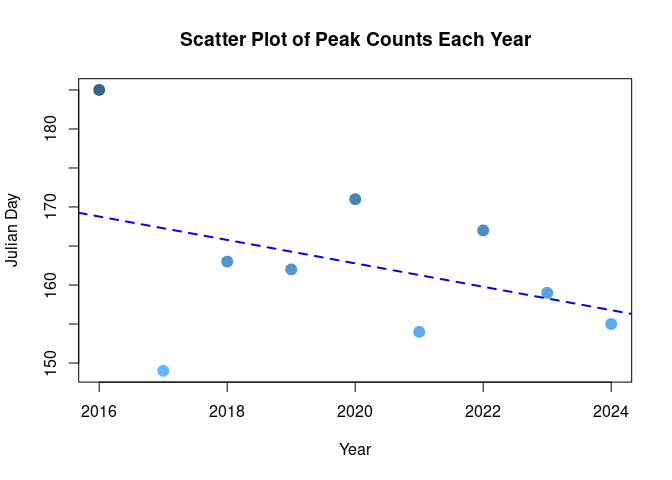
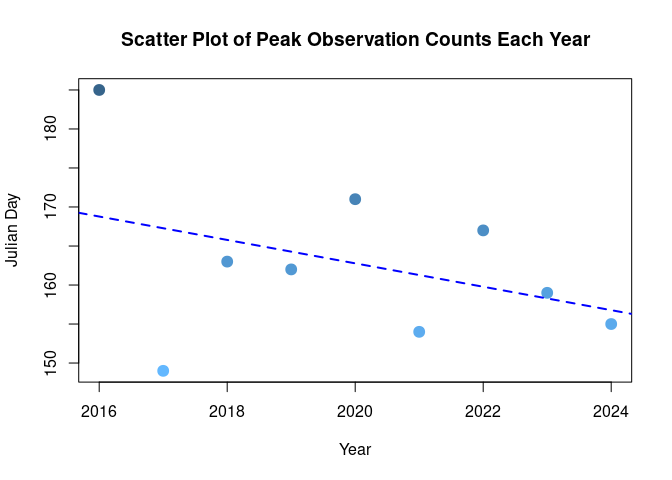
final report submission

Changed region(s): [[0.1562, 0.0625, 0.875, 0.0938]]

diff --git a/FinalMarkdown.md b/FinalMarkdown.md
@@ -1,24 +1,24 @@
 Final Markdown Report - Fireflies
 ================
 Luke Hatch
-2025-11-20
+2025-12-02
 
 - [ABSTRACT](#abstract)
 - [BACKGROUND](#background)
   - [Question](#question)
   - [Hypothesis](#hypothesis)
   - [Prediction](#prediction)
-- [METHODS](#methods)
+- [Methods and Results](#methods-and-results)
   - [1st Analysis (Bar Plot)](#1st-analysis-bar-plot)
   - [2nd Analysis (Scatter Plot)](#2nd-analysis-scatter-plot)
-  - [3rd Analysis (ANOVA)](#3rd-analysis-anova)
+  - [3rd Analysis (Linear Model)](#3rd-analysis-linear-model)
 - [DISCUSSION](#discussion)
   - [Interpretation of Analysis 1 (Bar
     Plot)](#interpretation-of-analysis-1-bar-plot)
   - [Interpretation of Analysis 2 (Scatter
     Plot)](#interpretation-of-analysis-2-scatter-plot)
-  - [Interpretation of Analysis 3
-    (ANOVA)](#interpretation-of-analysis-3-anova)
+  - [Interpretation of Analysis 3 (Linear
+    Model)](#interpretation-of-analysis-3-linear-model)
 - [CONCLUSION](#conclusion)
 - [REFERENCES](#references)
 
@@ -27,17 +27,19 @@ Luke Hatch
 Firefly emergence is influenced by many environmental factors, including
 temperature. This raises the question as to whether warming temperatures
 (e.g. from climate change) could affect at what times of year adults are
-observed. From citizen science data collected in Utah from 2016-2024, we
-analyzed peak firefly abundance monthly from year to year by
+observed. From citizen science data (provided by Christy Bills, 2025)
+collected in Utah from 2016-2024 as part of the Western Firefly Project
+(2025), we analyzed firefly observations monthly from year to year by
 consolidating the observations into counts. We then displayed the data
 patterns using a bar plot and a scatter plot. This displayed a
 consistent peak firefly count in June each year with a slight downward
-trend in earlier emergence. An ANOVA analysis was also conducted in
-order to test for significance between the peak emergences in 2016-2024,
-yielding insignificant results (p = 0.309). These results did not
-support our hypothesis of warmer temperatures affecting the timing of
-firefly emergences. However, citizen science data is limiting. Long-term
-observational studies in various locations could yield other results.
+trend in earlier emergence. A linear model was ran in order to test for
+both the trend and significance between the peak observational counts in
+2016-2024, yielding insignificant results (p = 0.309). These results did
+not support our hypothesis of warmer temperatures affecting the timing
+of firefly emergence. However, citizen science data is limiting and
+long-term observational studies in various locations could yield other
+results.
 
 # BACKGROUND
 
@@ -48,45 +50,51 @@ record what they saw, providing firefly citizen scientist data that
 supports further research on their behavior. Before they’re in the sky,
 however, they spend the majority of their lives underground developing.
 Duration of their lives underground is influenced by a variety of
-factors (Evans et al., 2019, p. 266). Depending primarily on climate and
-soil conditions, the stages of the firefly life cycles can be altered -
-taking or adding time (Evans et al., 2019, p. 266). Because these
-conditions change each year, the timing and abundance of emerged
-fireflies can also fluctuate. This report uses citizen science data
-collected in Utah to examine firefly abundance over the past 8 years.
+factors (Evans et al., 2019). Depending primarily on climate and soil
+conditions, the stages of the firefly life cycles can be altered -
+taking or adding time (Evans et al., 2019). Because these conditions
+change each year, the timing and number of emerged fireflies can also
+fluctuate. This report uses citizen science data collected in Utah to
+examine firefly observational counts over the past 9 years and how the
+timing of those counts has changed.
 
 ## Question
 
-How has firefly peak abundance changed monthly over the last 8 years
-(2016-2024)?
+How has the timing of firefly peak observational count changed over the
+last 9 years (2016-2024)?
 
 ## Hypothesis
 
 Due to temperature changes (e.g. global warming), fireflies are expected
 to emerge sooner in the year as each year passes, as warmer temperatures
 can accelerate their development and affect the timing of emergence
-(Evans et al., 2019, p. 266).
+(indicated by peak observational counts)(Evans et al., 2019).
 
 ## Prediction
 
 If temperature increases have influenced firefly emergence, then peak
-abundance would be observed earlier in years where the temperature is
-higher earlier in that year (such as emerging in May vs. June).
+observational counts would be observed earlier in years where the
+temperature is higher earlier in that year (such as emerging in May
+vs. June).
 
-# METHODS
+# Methods and Results
 
 Over the years, starting in 1964, citizen science data was collected
 throughout Utah on firefly sightings. Observations included information
-like date, time, location, habitat, and count was recorded. Citizen
+like date, time, location, habitat, and count was recorded. This data
+was used to answer our question regarding observational counts year to
+year and whether there was an earlier trend of emergence or not. Citizen
 science data is notoriously messy and unreliable, so we took the data
 and simplified it by only using the dates observed and using that date
 as a count, rather than the numbers of fireflies reported. We also added
-a column that converted the day of the year to a Julian calendar day.
-This revised data was then uploaded to R Studio Cloud and code was
-written to: 1) display the data by counts per month each year in a
-multi-plot 2) display the data year-to-year by peak abundance and
-observe the trend and 3) perform an ANOVA to determine if the trend is
-significant.
+a column that converted the day of the year to a Julian calendar day. We
+made this change to the response variable for simplicity comparing year
+to year, numbering each day 1-365 rather than 1-30 repeated for each
+month. This revised data was then uploaded to R Studio Cloud and code
+was written to: 1) display the data by counts per month each year in a
+multi-plot 2) display the data year-to-year by peak observational counts
+and observe the trend and 3) create an linear model to determine if the
+trend is significant.
 
 ## 1st Analysis (Bar Plot)
 
@@ -120,7 +128,7 @@ color_gradient <- colorRampPalette(c("steelblue1", "steelblue4"))
 # Generate a vector (color gradient) based on Julian values
 cols <- color_gradient(100)[as.numeric(cut(Julian, breaks = 100))]
 #plot as scatter plot
-plot(Year, Julian, main = "Scatter Plot of Peak Counts Each Year",
+plot(Year, Julian, main = "Scatter Plot of Peak Observation Counts Each Year",
      col = cols,
      pch = 19,       # filled circles
      cex = 1.5,      # point size
@@ -131,24 +139,13 @@ abline(lm(Julian ~ Year), col = "blue", lwd = 2, lty = 2)
 
 ![](FinalMarkdown_files/figure-gfm/second-1.png)<!-- -->
 
-## 3rd Analysis (ANOVA)
+## 3rd Analysis (Linear Model)
 
 ``` r
 #create data frame 
 Julian_dataframe <- data.frame(ColumnA = Julian, ColumnB = Year)
 m1 <- lm( ColumnA ~ ColumnB, data=Julian_dataframe)
-# run anova test for p value
-anova(m1)
-```
-
-    ## Analysis of Variance Table
-    ## 
-    ## Response: ColumnA
-    ##           Df Sum Sq Mean Sq F value Pr(>F)
-    ## ColumnB    1 135.00  135.00  1.2014 0.3093
-    ## Residuals  7 786.56  112.36
-
-``` r
+# run linear model from julian data frame for slope and p value
 summary(m1)
 ```
 
@@ -172,43 +169,49 @@ summary(m1)
 # DISCUSSION
 
 Results of citizen science firefly observations did not show a
-significant change in peak abundance each year. Analyses showed each
-observation on a timeline from 2016 to 2024. It was clear that firefly
-abundance was highest around June each year. In taking a closer look at
-the peak abundance each year, there was a slight trend downward as the
-years became more current. After the ANOVA was ran, the slope of this
-line was determined to be -1.5 and the significance of the peak
-abundances was 0.3093. This meant the change year to year was not
-significant. This did not support our hypothesis.
+significant change in peak observational counts each year. Analyses
+showed each observation on a timeline from 2016 to 2024. It was clear
+that firefly emergence was highest around June each year. In taking a
+closer look at the peak counts each year, there was a slight trend
+downward as the years became more current. After the linear model was
+examined, the slope of this line was determined to be -1.5 and the
+significance of the peak observational counts was 0.3093. This meant the
+change year to year was not significant. This did not support our
+hypothesis.
 
 ## Interpretation of Analysis 1 (Bar Plot)
 
-The bar plot clearly shows a common trend of firefly abundance each
-year. Abundance starts lowest in the beginning of the year, and around
-June (Julian days 145-190) peaks in numbers. This is followed by a
+The bar plot clearly shows a common trend of firefly observational
+counts each year. Counts start lowest in the beginning of the year, and
+around June (Julian days 145-190) peak in numbers. This is followed by a
 decline as the year completes and the cycle repeats.
 
 ## Interpretation of Analysis 2 (Scatter Plot)
 
-This scatter plot is a visual of the peak abundance from years
-2018-2024. There is a large amount of fluctuation in the time of year
-peak abundance is reached each year. The line helps indicate a slight
-downward trend as the years go by, but does not indicate the slope of
-that line.
+This scatter plot is a visual of the peak observational counts from
+years 2016-2024. There is a large amount of fluctuation in the time of
+year peaks counts are reached each year, with the latest outlier in 2016
+with the earliest peak observation count following in 2017. The
+contributes to a slight downward trend as the years go by, but does not
+indicate the slope of that line or significance (see Analysis 3 below).
 
-## Interpretation of Analysis 3 (ANOVA)
+## Interpretation of Analysis 3 (Linear Model)
 
-The results of the ANOVA display both the slope of the Scatter Plot from
-analysis 2 as well as the test for significance. The slope was -1.5,
-indicating a slight downward trend. However the p-value was 0.309,
-indicating the change over time was not significant.
+The results of the linear model display both the slope of the scatter
+plot from analysis 2 as well as the test for significance. The slope was
+-1.5, indicating a slight downward trend. However the p-value was 0.309,
+indicating the change over time was not significant. The adjusted
+R-squared value supports this conclusion of no significance with a value
+of 0.025.
 
 # CONCLUSION
 
-In determining whether the timing of firefly abundance was changing
-year-to-year, the results were not significant. Overall, the data did
-not support our hypothesis that warmer temperatures each year contribute
-to an earlier firefly emergence. This suggests that firefly abundance is
+In determining whether the timing of firefly counts was changing
+year-to-year, the results were not significant (p-value = 0.309). This
+value indicates there is no detectable shift in peak observation count
+timing (emergence) over these years. Overall, the data did not support
+our hypothesis that warmer temperatures each year contribute to an
+earlier firefly emergence. This suggests that firefly counts are
 currently remaining relatively consistent from year to year. A major
 limitation of this study is the source of the data - citizen science
 contributions. Although usable, citizen science data can be unreliable
@@ -216,22 +219,21 @@ in consistency and accuracy. This also contributed to the timescale for
 the observations. Due to the inconsistency of observations, we limited
 the analysis to only the years 2016-2024 as they appeared the most
 complete and consistent. With more consistent data (i.e. more data from
-the 1900s), the observed trend in the 8 years examined could be more
+the 1900s), the observed trend in the 9 years examined could be more
 significant. Further research could involve a long-term study with more
 reliable data to test for significance. Evans et. al (2019) has already
 demonstrated the connection of firefly emergence with temperature
 changes, thus further study in temperature changes year to year would
 also be important in determining temperature as the most likely concern
-for potential future abundance timing changes. Studying firefly
+for potential future emergence timing changes. Studying firefly
 populations in other locations outside of Utah may show a similar trend
 or no trend at all, furthering research on whether this is a world-wide
 possibility.
 
 # REFERENCES
 
-1.  Citizen Science Libraries. (n.d.). UtahFireflies. Google Docs.
-    Retrieved October 30, 2025, from
-    <https://docs.google.com/spreadsheets/d/1XLklQd6P3d9wYnmh-3KgzNvP8GfQHL2Y2IyaZMwIOzk/edit?usp=drive_web&ouid=106039106225729317949&usp=embed_facebook>
+1.  Bills, C. (2025, September 25). Citizen Science. Utah State
+    University.
 
 2.  Evans, D. M., Boyer, A. G., Phillips, M. L., & Jepsen, S. J. (2019).
     Firefly (Coleoptera: Lampyridae) phenology, life history, and
@@ -239,4 +241,8 @@ possibility.
     Entomology, 48(2), 265–273. <https://doi.org/10.1111/een.12702>
 
 3.  ChatGPT. OpenAI, version Nov 2025. Used as a reference for functions
-    such as plot() and to correct syntax errors. Accessed 2025-11-20.
+    such as plot() and to correct syntax errors. Accessed 2025-12-02.
+
+4.  Western Firefly Project: A Community Science Initiative \| Natural
+    History Museum of Utah. (2025, October 18).
+    <https://nhmu.utah.edu/citizen-science/fireflies>
